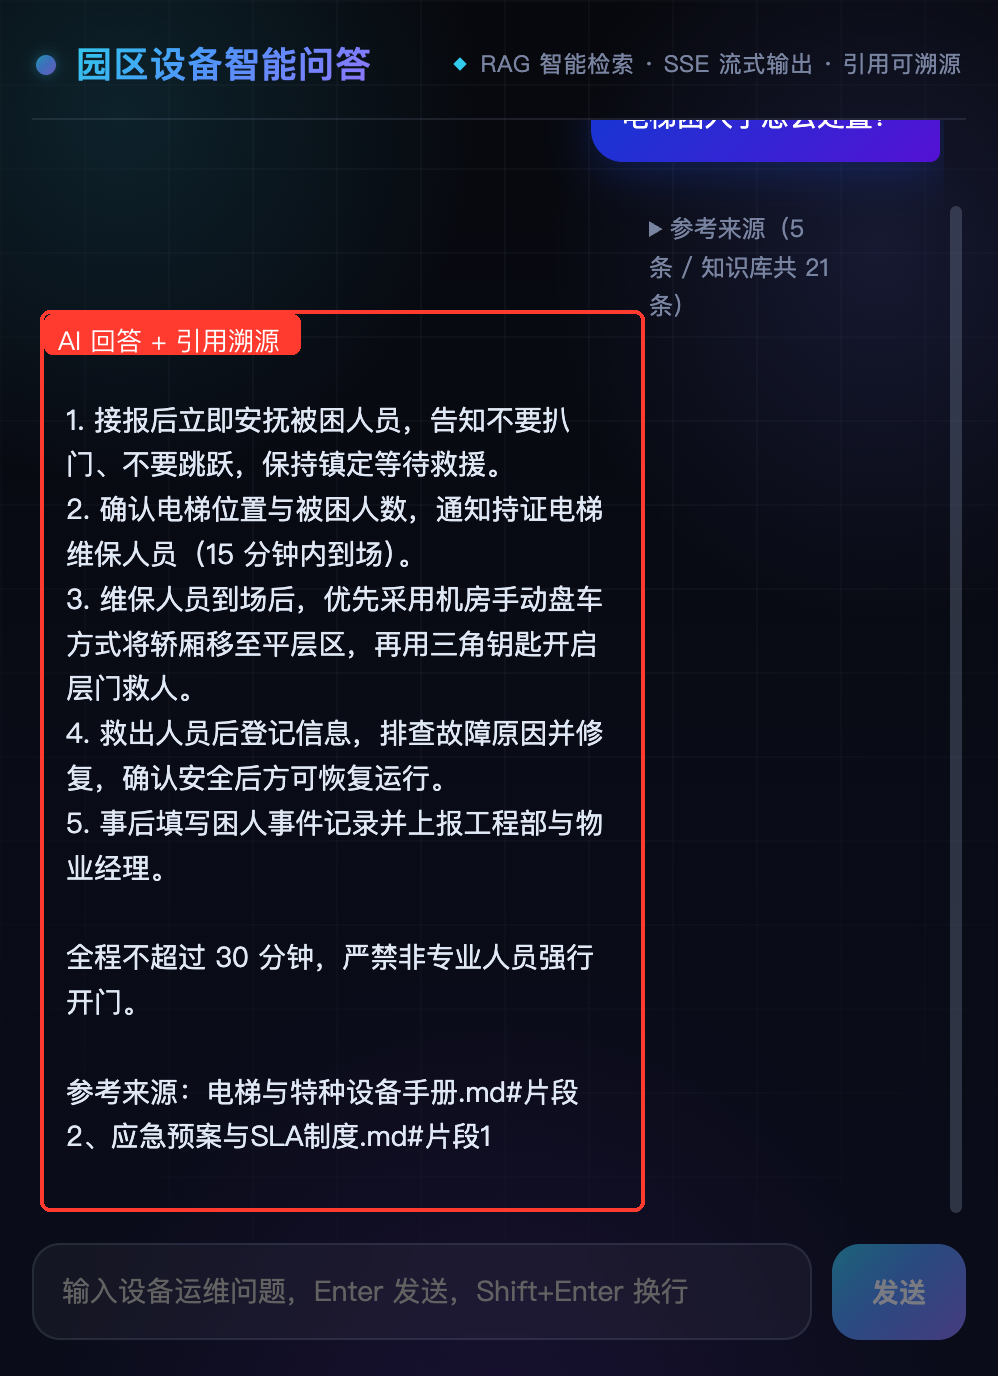
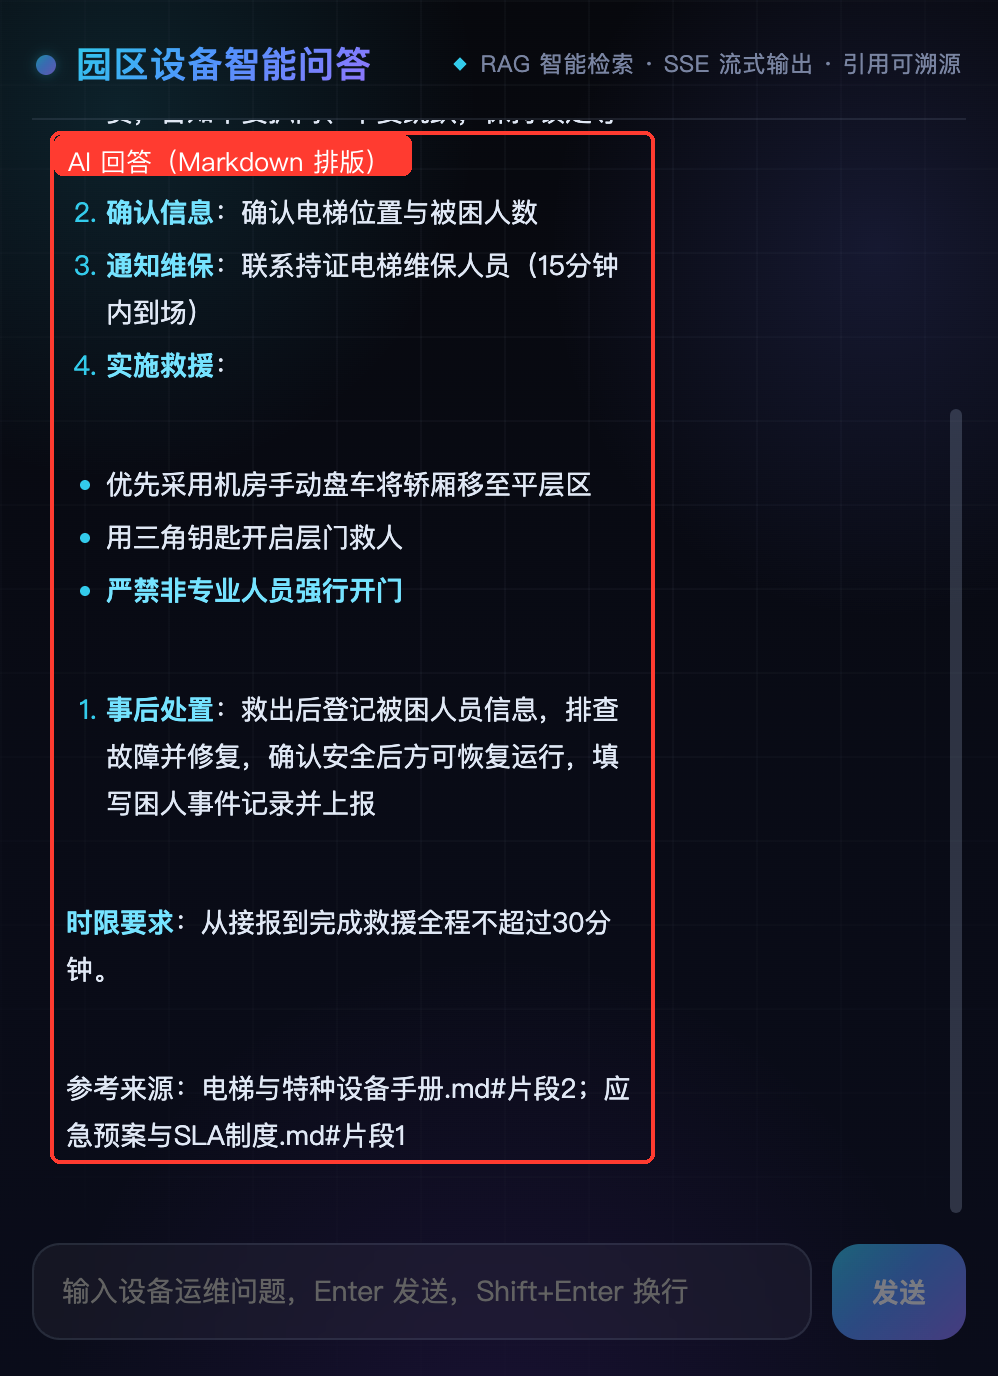
feat: AI回答Markdown渲染美化（标题/加粗/列表/代码/引用，零依赖XSS安全）+效果图更新

Changed region(s): [[0.0311, 0.0625, 0.9629, 0.875], [0.9319, 0.1562, 0.9629, 0.3125]]

diff --git a/web/src/markdown.ts b/web/src/markdown.ts
@@ -1,0 +1,116 @@
+/**
+ * 极简 Markdown 渲染器（零依赖、XSS 安全）：
+ * 先整体转义 HTML，再按行解析块级语法（标题/引用/分隔线/列表/代码块），
+ * 块内做行内解析（**加粗**、*斜体*、`行内代码`）。
+ * 支持：H1-H4、加粗、斜体、行内代码、代码块、无序/有序列表、引用、分隔线、段落。
+ */
+
+function escapeHtml(s: string): string {
+  return s.replace(/&/g, '&amp;').replace(/</g, '&lt;').replace(/>/g, '&gt;');
+}
+
+function inline(s: string): string {
+  let t = s;
+  // 先抽出行内代码，避免内部符号被后续规则破坏
+  const codes: string[] = [];
+  t = t.replace(/`([^`]+)`/g, (_m, c) => {
+    codes.push(c);
+    return `\u0000${codes.length - 1}\u0000`;
+  });
+  t = t.replace(/\*\*([^*]+)\*\*/g, '<strong>$1</strong>');
+  t = t.replace(/(^|[^*])\*([^*\n]+)\*/g, '$1<em>$2</em>');
+  // 链接保留文字、去掉跳转（避免回答里出现可点击外链风险）
+  t = t.replace(/\[([^\]]+)\]\([^)]+\)/g, '$1');
+  t = t.replace(/\u0000(\d+)\u0000/g, (_m, i) => `<code>${codes[Number(i)]}</code>`);
+  return t;
+}
+
+export function renderMarkdown(src: string): string {
+  const lines = escapeHtml(src || '').split('\n');
+  const out: string[] = [];
+  let inCode = false;
+  let codeBuf: string[] = [];
+  let listType: 'ul' | 'ol' | null = null;
+  let listBuf: string[] = [];
+
+  const flushList = () => {
+    if (listType && listBuf.length) {
+      out.push(`<${listType}>${listBuf.map((x) => `<li>${inline(x)}</li>`).join('')}</${listType}>`);
+    }
+    listType = null;
+    listBuf = [];
+  };
+
+  for (const raw of lines) {
+    const line = raw;
+    const t = line.trim();
+
+    if (t.startsWith('```')) {
+      if (inCode) {
+        out.push(`<pre><code>${codeBuf.join('\n')}</code></pre>`);
+        codeBuf = [];
+        inCode = false;
+      } else {
+        flushList();
+        inCode = true;
+      }
+      continue;
+    }
+    if (inCode) {
+      codeBuf.push(line);
+      continue;
+    }
+
+    const h = /^(#{1,4})\s+(.*)$/.exec(t);
+    if (h) {
+      flushList();
+      const level = h[1].length;
+      out.push(`<h${level}>${inline(h[2])}</h${level}>`);
+      continue;
+    }
+
+    if (t.startsWith('>')) {
+      flushList();
+      out.push(`<blockquote>${inline(t.replace(/^>\s?/, ''))}</blockquote>`);
+      continue;
+    }
+
+    if (/^(-{3,}|\*{3,}|_{3,})$/.test(t)) {
+      flushList();
+      out.push('<hr/>');
+      continue;
+    }
+
+    const ul = /^[-*+]\s+(.*)$/.exec(t);
+    if (ul) {
+      if (listType !== 'ul') {
+        flushList();
+        listType = 'ul';
+      }
+      listBuf.push(ul[1]);
+      continue;
+    }
+
+    const ol = /^\d+[.、)]\s+(.*)$/.exec(t);
+    if (ol) {
+      if (listType !== 'ol') {
+        flushList();
+        listType = 'ol';
+      }
+      listBuf.push(ol[1]);
+      continue;
+    }
+
+    if (!t) {
+      flushList();
+      continue;
+    }
+
+    flushList();
+    out.push(`<p>${inline(t)}</p>`);
+  }
+
+  flushList();
+  if (inCode && codeBuf.length) out.push(`<pre><code>${codeBuf.join('\n')}</code></pre>`);
+  return out.join('\n');
+}

diff --git a/web/src/style.css b/web/src/style.css
@@ -221,6 +221,118 @@ body::after {
   box-shadow: 0 4px 20px rgba(2, 8, 26, 0.35);
 }
 
+/* ---- AI 回答 Markdown 渲染样式 ---- */
+.markdown-body {
+  font-size: 13.5px;
+  line-height: 1.75;
+  word-break: break-word;
+}
+
+.markdown-body > :first-child {
+  margin-top: 0;
+}
+
+.markdown-body > :last-child {
+  margin-bottom: 0;
+}
+
+.markdown-body p {
+  margin: 6px 0;
+}
+
+.markdown-body strong {
+  color: #7ee7ff;
+  font-weight: 700;
+}
+
+.markdown-body em {
+  color: var(--text-2);
+}
+
+.markdown-body h1,
+.markdown-body h2,
+.markdown-body h3,
+.markdown-body h4 {
+  margin: 12px 0 6px;
+  line-height: 1.4;
+  font-weight: 700;
+  color: #d9f3ff;
+}
+
+.markdown-body h1 {
+  font-size: 15.5px;
+  padding-left: 9px;
+  border-left: 3px solid var(--accent);
+}
+
+.markdown-body h2 {
+  font-size: 14.5px;
+  padding-left: 8px;
+  border-left: 3px solid rgba(34, 211, 238, 0.7);
+}
+
+.markdown-body h3 {
+  font-size: 13.5px;
+  color: var(--accent);
+}
+
+.markdown-body h4 {
+  font-size: 13px;
+}
+
+.markdown-body ul,
+.markdown-body ol {
+  margin: 6px 0;
+  padding-left: 20px;
+}
+
+.markdown-body li {
+  margin: 3px 0;
+}
+
+.markdown-body li::marker {
+  color: var(--accent);
+}
+
+.markdown-body code {
+  background: rgba(34, 211, 238, 0.12);
+  color: #7ee7ff;
+  border-radius: 5px;
+  padding: 1px 5px;
+  font-family: 'SF Mono', Menlo, Consolas, monospace;
+  font-size: 0.88em;
+}
+
+.markdown-body pre {
+  background: rgba(2, 6, 20, 0.65);
+  border: 1px solid var(--border);
+  border-radius: 10px;
+  padding: 10px 12px;
+  overflow-x: auto;
+  margin: 8px 0;
+}
+
+.markdown-body pre code {
+  background: transparent;
+  padding: 0;
+  color: #b8e6ff;
+}
+
+.markdown-body blockquote {
+  margin: 8px 0;
+  padding: 6px 12px;
+  border-left: 3px solid var(--accent);
+  background: rgba(34, 211, 238, 0.06);
+  border-radius: 0 8px 8px 0;
+  color: var(--text-2);
+}
+
+.markdown-body hr {
+  border: none;
+  border-top: 1px dashed var(--border);
+  margin: 10px 0;
+}
+
 .typing {
   display: inline-flex;
   gap: 4px;

diff --git a/web/src/App.vue b/web/src/App.vue
@@ -1,6 +1,7 @@
 <script setup lang="ts">
 import { nextTick, ref } from 'vue'
 import { chatStream } from './api'
+import { renderMarkdown } from './markdown'
 import type { ChatMessage, SourceItem } from './api'
 
 interface DisplayMessage {
@@ -178,7 +179,8 @@ function onKeydown(e: KeyboardEvent) {
 
       <div v-for="(m, i) in messages" :key="i" class="msg" :class="m.role">
         <div class="bubble" :class="{ 'error-bubble': m.error }">
-          {{ m.content }}
+          <div v-if="m.role === 'assistant'" class="markdown-body" v-html="renderMarkdown(m.content)"></div>
+          <template v-else>{{ m.content }}</template>
           <span v-if="streaming && i === messages.length - 1 && !m.content" class="typing">
             <span></span><span></span><span></span>
           </span>
